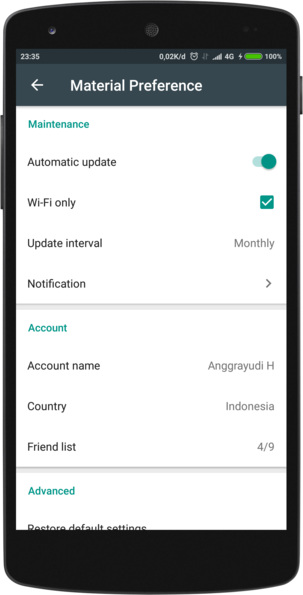
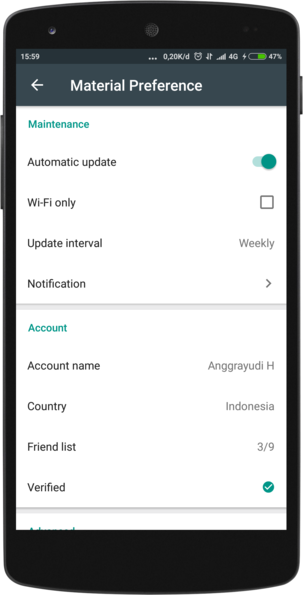
Updated sample

diff --git a/sample/src/main/java/com/anggrayudi/materialpreference/sample/SettingsFragment.java b/sample/src/main/java/com/anggrayudi/materialpreference/sample/SettingsFragment.java
@@ -45,11 +45,11 @@ public class SettingsFragment extends PreferenceFragmentMaterial implements
             }
         });
 
-        findPreference("battery_indicator").setOnPreferenceClickListener(new Preference.OnPreferenceClickListener() {
+        findPreference("account_status").setOnPreferenceClickListener(new Preference.OnPreferenceClickListener() {
             @Override
             public boolean onPreferenceClick(Preference preference) {
                 new MaterialDialog.Builder(getContext())
-                        .content("Your battery is in health condition.")
+                        .content("Your account has been verified.")
                         .positiveText(android.R.string.ok)
                         .show();
                 return true;

diff --git a/materialpreference/src/main/java/com/anggrayudi/materialpreference/IndicatorPreference.java b/materialpreference/src/main/java/com/anggrayudi/materialpreference/IndicatorPreference.java
@@ -7,7 +7,6 @@ import android.graphics.PorterDuff;
 import android.graphics.drawable.Drawable;
 import android.support.v4.content.res.TypedArrayUtils;
 import android.util.AttributeSet;
-import android.util.Log;
 import android.widget.ImageView;
 
 @SuppressLint("RestrictedApi")
@@ -36,16 +35,6 @@ public class IndicatorPreference extends Preference {
 
     public IndicatorPreference(Context context) {
         this(context, null);
-    }
-
-    @Override
-    public final boolean isPersistent() {
-        return false;
-    }
-
-    @Override
-    public final void setPersistent(boolean persistent) {
-        Log.i(TAG, "IndicatorPreference.setPersistent() always false");
     }
 
     @Override

diff --git a/README.md b/README.md
@@ -85,6 +85,11 @@ If you want to include sounds from the external storage your app needs to reques
 `android.permission.READ_EXTERNAL_STORAGE` permission in its manifest.
 Don't forget to check this runtime permission before opening ringtone picker on API 23.
 
+### TODO-list
+- `FolderPreference`
+- `FilePreference`
+- `app:entryIcons` to `ListPreference` and `MultiSelectListPreference`
+
 ## License
 
     Copyright 2018 Anggrayudi Hardiannicko A.
